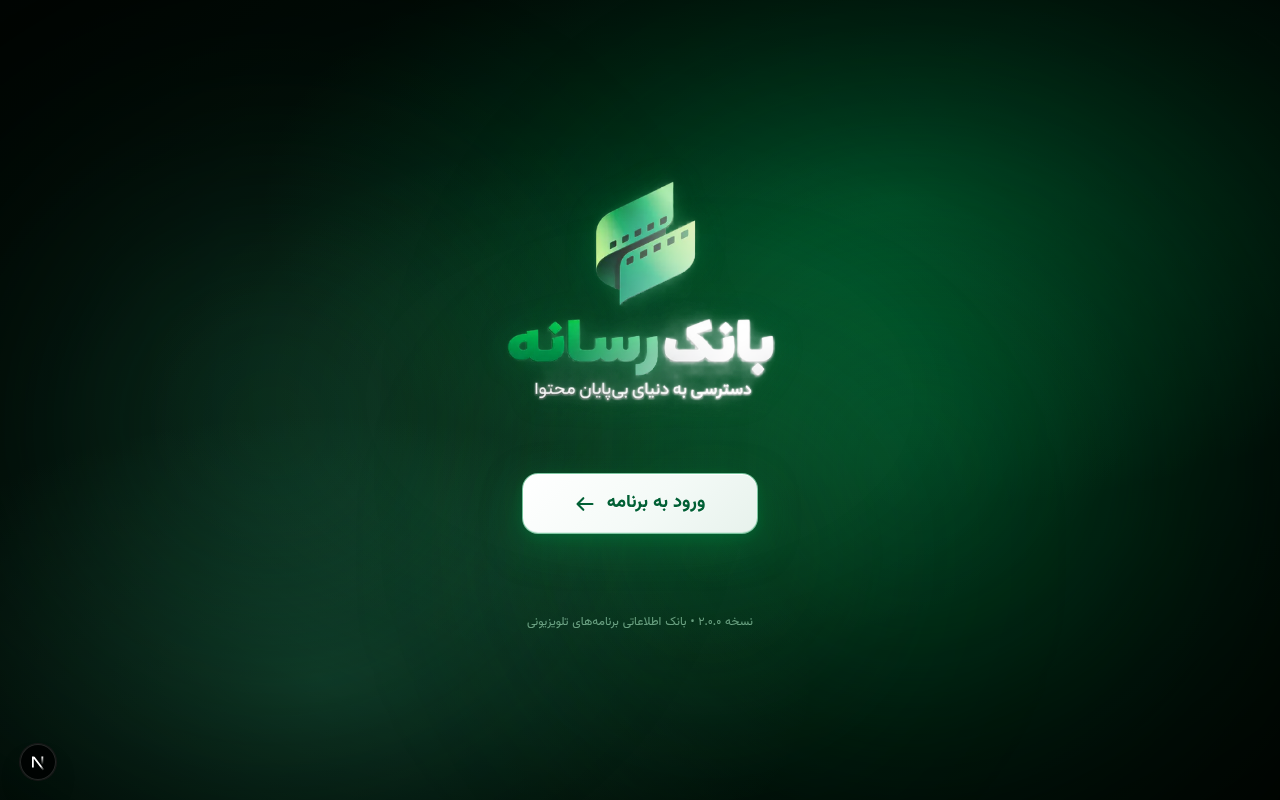
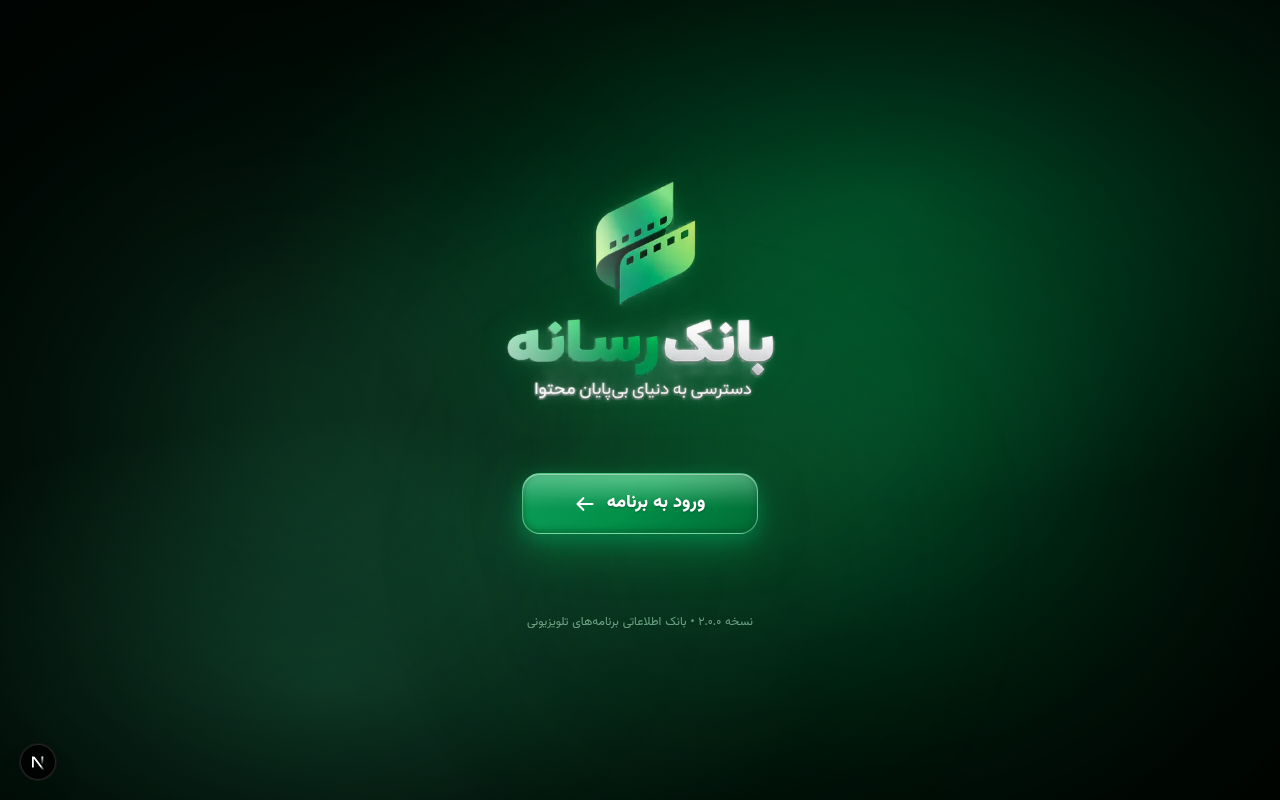
c85e0310-b5e3-42f6-b17a-b41d8ff2fd75

Changed region(s): [[0.375, 0.4062, 0.625, 0.5], [0.4062, 0.5938, 0.5938, 0.6875], [0.4688, 0.2188, 0.5625, 0.375]]

diff --git a/src/app/globals.css b/src/app/globals.css
@@ -207,39 +207,65 @@ html, body {
   transform: translateY(0) scale(1);
 }
 
-/* White variant — used for the login button (high contrast on the dark hero).
-   Dark green text so "ورود به برنامه" is clearly legible. */
+/* Liquid-glass matte green — used for the login button.
+   Translucent green body with a frosted specular highlight on top,
+   a soft outer glow to separate it from the dark green hero,
+   and white text for strong contrast. */
 .btn-enter-white {
   position: relative;
   padding: 16px 52px;
-  border-radius: 16px;
+  border-radius: 18px;
   font-size: 18px;
   font-weight: 800;
-  color: #016035;
+  color: #ffffff;
   cursor: pointer;
   overflow: hidden;
-  background: linear-gradient(135deg, #ffffff 0%, #f4faf7 55%, #e7f2ec 100%);
-  border: 1px solid rgba(2, 144, 72, 0.5);
+  /* Frosted glass: translucent green base + backdrop blur (visual approximation) */
+  background:
+    /* top specular highlight — the "glass" sheen */
+    linear-gradient(180deg, rgba(255, 255, 255, 0.28) 0%, rgba(255, 255, 255, 0.08) 42%, rgba(255, 255, 255, 0) 58%),
+    /* soft inner glow */
+    radial-gradient(120% 80% at 50% 0%, rgba(74, 222, 128, 0.35) 0%, rgba(74, 222, 128, 0) 60%),
+    /* main matte green body */
+    linear-gradient(135deg, #0e9d5a 0%, #029048 48%, #016b35 100%);
+  border: 1px solid rgba(134, 239, 172, 0.55);
   box-shadow:
-    0 12px 40px rgba(2, 144, 72, 0.38),
-    0 4px 12px rgba(2, 144, 72, 0.22),
-    inset 0 1px 0 rgba(255, 255, 255, 0.95),
-    inset 0 -1px 0 rgba(2, 144, 72, 0.12);
+    /* outer glow — separates the button from the dark hero */
+    0 14px 44px rgba(2, 144, 72, 0.55),
+    0 6px 18px rgba(16, 185, 129, 0.35),
+    /* matte top inner highlight (frosted, not glossy) */
+    inset 0 1px 0 rgba(255, 255, 255, 0.4),
+    /* matte bottom inner shadow (grounds the button) */
+    inset 0 -2px 6px rgba(1, 60, 30, 0.5),
+    /* subtle frosted grain via inner ring */
+    inset 0 0 0 1px rgba(255, 255, 255, 0.06);
   transition: all 0.35s cubic-bezier(0.4, 0, 0.2, 1);
   letter-spacing: 0.5px;
-  text-shadow: 0 1px 0 rgba(255, 255, 255, 0.85);
+  text-shadow: 0 1px 2px rgba(1, 60, 30, 0.5);
+  /* slight frosted feel */
+  backdrop-filter: blur(2px) saturate(115%);
+  -webkit-backdrop-filter: blur(2px) saturate(115%);
 }
 .btn-enter-white:hover {
   transform: translateY(-2px) scale(1.02);
-  background: linear-gradient(135deg, #ffffff 0%, #eaf6ef 55%, #d8efe3 100%);
+  background:
+    linear-gradient(180deg, rgba(255, 255, 255, 0.34) 0%, rgba(255, 255, 255, 0.1) 42%, rgba(255, 255, 255, 0) 58%),
+    radial-gradient(120% 80% at 50% 0%, rgba(134, 239, 172, 0.45) 0%, rgba(134, 239, 172, 0) 60%),
+    linear-gradient(135deg, #10b981 0%, #04a252 48%, #027940 100%);
   box-shadow:
-    0 18px 56px rgba(2, 144, 72, 0.48),
-    0 6px 20px rgba(2, 144, 72, 0.3),
-    inset 0 1px 0 rgba(255, 255, 255, 1),
-    inset 0 -1px 0 rgba(2, 144, 72, 0.14);
+    0 20px 60px rgba(2, 144, 72, 0.65),
+    0 8px 24px rgba(16, 185, 129, 0.45),
+    inset 0 1px 0 rgba(255, 255, 255, 0.5),
+    inset 0 -2px 6px rgba(1, 60, 30, 0.5),
+    inset 0 0 0 1px rgba(255, 255, 255, 0.08);
 }
 .btn-enter-white:active {
   transform: translateY(0) scale(1);
+  box-shadow:
+    0 8px 24px rgba(2, 144, 72, 0.45),
+    0 3px 10px rgba(16, 185, 129, 0.3),
+    inset 0 1px 0 rgba(255, 255, 255, 0.3),
+    inset 0 2px 8px rgba(1, 60, 30, 0.6);
 }
 
 /* Hide scrollbar utility — used for horizontal filter chip rows on mobile */

diff --git a/src/app/page.tsx b/src/app/page.tsx
@@ -570,10 +570,10 @@ function LoginScreen({ onEnter, loading }: { onEnter: () => void; loading: boole
           disabled={loading}
           className="btn-enter-white group"
         >
-          <span className="relative z-10 flex items-center gap-3 justify-center" style={{ color: '#016035' }}>
+          <span className="relative z-10 flex items-center gap-3 justify-center" style={{ color: '#ffffff' }}>
             {loading ? (
               <>
-                <div className="w-5 h-5 border-2 rounded-full animate-spin" style={{ borderColor: 'rgba(1,96,53,0.3)', borderTopColor: '#016035' }}></div>
+                <div className="w-5 h-5 border-2 rounded-full animate-spin" style={{ borderColor: 'rgba(255,255,255,0.35)', borderTopColor: '#ffffff' }}></div>
                 <span>در حال ورود...</span>
               </>
             ) : (
@@ -582,7 +582,7 @@ function LoginScreen({ onEnter, loading }: { onEnter: () => void; loading: boole
                 <svg
                   className="w-5 h-5 rtl-flip group-hover:-translate-x-1.5 transition-transform"
                   fill="none"
-                  stroke="#016035"
+                  stroke="#ffffff"
                   viewBox="0 0 24 24"
                   strokeWidth={2.5}
                 >
